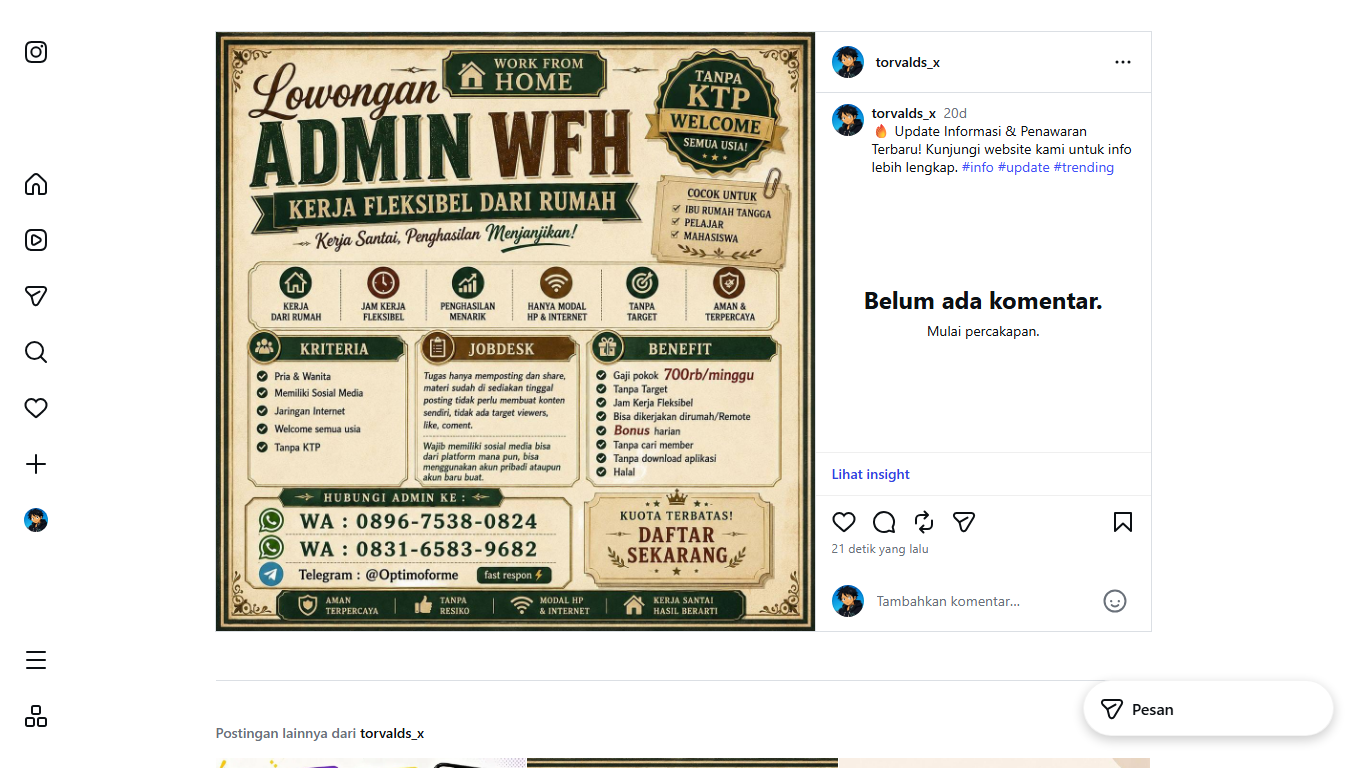
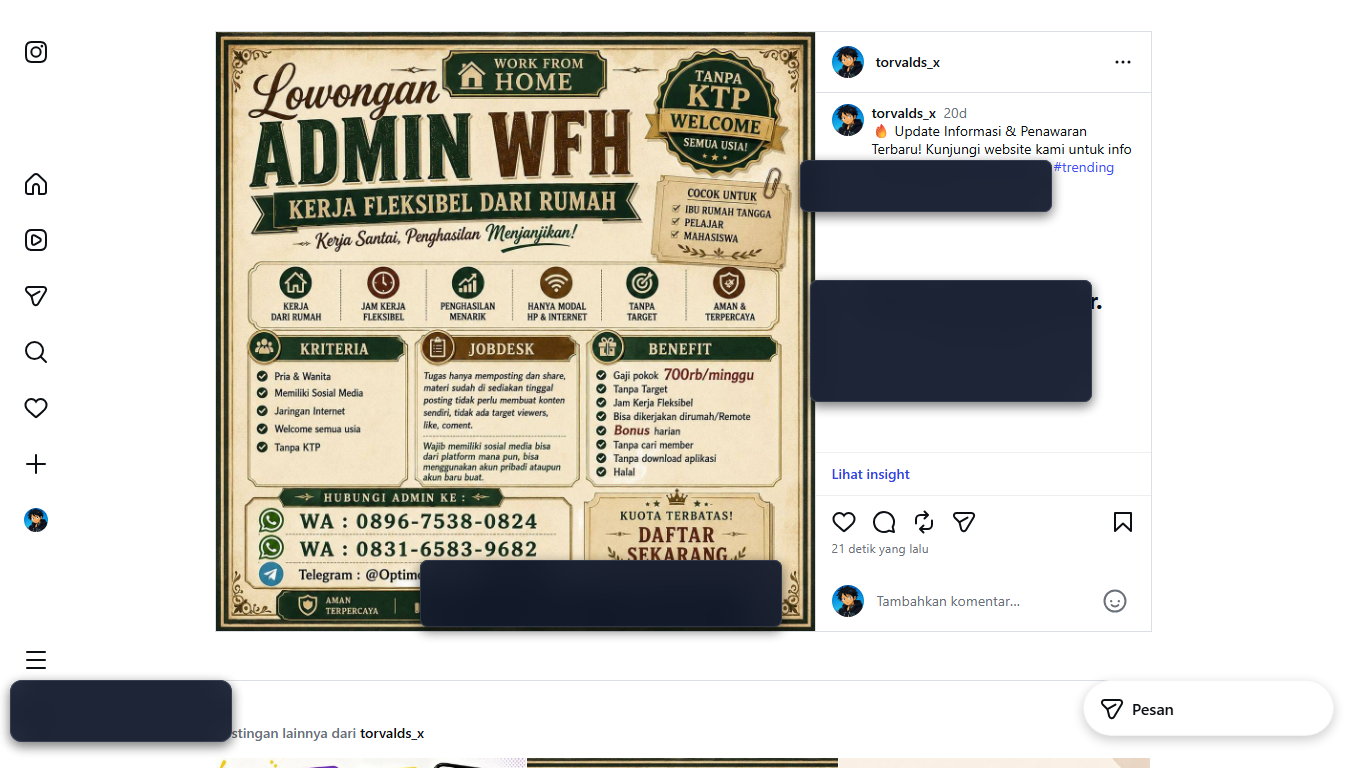
docs: blur sensitive contact info on proofs and polish README with humanized writing

diff --git a/README.md b/README.md
@@ -1,164 +1,124 @@
 <p align="center">
-  <img src="assets/banner.png" alt="AutoSocial 24/7 Bot Avatar" width="180" style="border-radius: 50%; box-shadow: 0 10px 30px rgba(0, 0, 0, 0.35);" />
+  <img src="assets/banner.png" alt="AutoSocial 24/7 Avatar" width="160" style="border-radius: 50%; box-shadow: 0 10px 25px rgba(0, 0, 0, 0.3);" />
 </p>
 
-<h1 align="center">🚀 AutoSocial 24/7</h1>
+<h1 align="center">AutoSocial 24/7</h1>
 <p align="center">
-  <strong>Autonomous Multi-Platform Social Media Auto-Poster & Real-Time Telegram Reporting System</strong>
+  <strong>Bot Otomasi Posting Multi-Platform (Instagram, Facebook, X) + Laporan Instan Telegram</strong>
 </p>
-
-<p align="center">
-  <img src="https://img.shields.io/badge/TypeScript-007ACC?style=for-the-badge&logo=typescript&logoColor=white" alt="TypeScript" />
-  <img src="https://img.shields.io/badge/Node.js-339933?style=for-the-badge&logo=nodedotjs&logoColor=white" alt="Node.js" />
-  <img src="https://img.shields.io/badge/Playwright-2EAD33?style=for-the-badge&logo=playwright&logoColor=white" alt="Playwright" />
-  <img src="https://img.shields.io/badge/Prisma-2D3748?style=for-the-badge&logo=prisma&logoColor=white" alt="Prisma" />
-  <img src="https://img.shields.io/badge/Express.js-000000?style=for-the-badge&logo=express&logoColor=white" alt="Express" />
-  <img src="https://img.shields.io/badge/Telegram_Bot-2CA5E0?style=for-the-badge&logo=telegram&logoColor=white" alt="Telegram" />
-  <img src="https://img.shields.io/badge/License-ISC-blue?style=for-the-badge" alt="License" />
-</p>
-
----
-
-## 📖 Tentang AutoSocial 24/7
-
-**AutoSocial 24/7** adalah sistem otomasi sosial media tingkat produksi yang dirancang untuk bekerja secara otonom tanpa henti. Sistem ini mempublikasikan poster secara terjadwal ke **Instagram Feed**, **Facebook Feed/Profil**, dan **X (Twitter)**, lalu secara instan mengirimkan laporan bukti tayang (*Proof of Work Screenshot*) langsung ke Telegram Bot Anda.
-
-> 💡 **Tanpa API Developer Resmi / Biaya Langganan Mahal!**  
-> Sistem ini memanfaatkan engine browser headless **Playwright** dengan manajemen sesi cookies cerdas (*Session-Aware Cookie Preservation*), sehingga Anda dapat menggunakan akun biasa tanpa perlu akun Developer Facebook/Twitter.
-
----
-
-## 📸 Bukti Tayang Otomatis (Proof-of-Work Gallery)
-
-Berikut adalah bukti tangkapan layar live hasil eksekusi publikasi otomatis poster dan caption oleh bot AI:
-
-### 1. 🐦 Bukti Tayang X (Twitter)
-> Bot secara otomatis mengisi composer X, mengunggah file poster beresolusi tinggi, mengetik caption ramah batas 280 karakter, dan menangkap screenshot status publikasi yang telah live:
 
 <p align="center">
-  <img src="assets/proof_twitter.png" alt="Bukti Tayang Live X / Twitter" width="850" style="border-radius: 12px; border: 1px solid #334155; box-shadow: 0 8px 24px rgba(0,0,0,0.4);" />
+  <img src="https://img.shields.io/badge/TypeScript-Ready-007ACC?style=flat-square&logo=typescript&logoColor=white" alt="TypeScript" />
+  <img src="https://img.shields.io/badge/Node.js-18+-339933?style=flat-square&logo=nodedotjs&logoColor=white" alt="Node.js" />
+  <img src="https://img.shields.io/badge/Playwright-Engine-2EAD33?style=flat-square&logo=playwright&logoColor=white" alt="Playwright" />
+  <img src="https://img.shields.io/badge/Prisma-SQLite-2D3748?style=flat-square&logo=prisma&logoColor=white" alt="Prisma" />
+  <img src="https://img.shields.io/badge/Telegram-Bot%20Reports-2CA5E0?style=flat-square&logo=telegram&logoColor=white" alt="Telegram" />
+  <img src="https://img.shields.io/badge/License-ISC-blue?style=flat-square" alt="License" />
 </p>
 
 ---
 
-### 2. 📸 Bukti Alur & Publikasi Instagram
-> Bot secara otomatis melakukan navigasi tangguh (*Resilient Navigation*), membuka popover pembuatan postingan, memasukkan media poster, mengisi caption humanis, dan menyelesaikan alur posting feed:
+## 💡 Latar Belakang & Alasan Dibuat
+
+Kebanyakan tools auto-post sosial media di luar sana butuh akun **Developer API** (Facebook Graph API atau Twitter API v2) yang persyaratannya ribet, verifikasi berbelit, dan harganya mahal untuk akun pribadi/tim kecil.
+
+**AutoSocial 24/7** dibuat sebagai solusi praktis: sistem ini berjalan seperti manusia yang membuka browser lewat **Playwright**, login menggunakan sesi cookie Anda, memposting poster sesuai jadwal, lalu langsung mengirimkan bukti screenshot tayang ke Telegram secara *real-time*.
+
+---
+
+## 📸 Bukti Hasil Eksekusi Otomatis
+
+Berikut adalah bukti tangkapan layar langsung saat bot menjalankan tugas posting di platform target:
+
+### 🐦 1. Publikasi di X (Twitter)
+> Bot membuka feed, upload gambar, mengetik caption ringkas ramah limit karakter, lalu menangkap screenshot postingan yang sudah live:
 
 <p align="center">
-  <img src="assets/proof_instagram.png" alt="Bukti Alur Posting Instagram" width="850" style="border-radius: 12px; border: 1px solid #334155; box-shadow: 0 8px 24px rgba(0,0,0,0.4);" />
+  <img src="assets/proof_twitter.png" alt="Bukti Tayang di X Twitter" width="900" style="border-radius: 10px; border: 1px solid #334155;" />
 </p>
 
 ---
 
-## 🌟 Fitur Unggulan
+### 📸 2. Alur Posting di Instagram
+> Bot menavigasi menu "Buat", memilih poster dari storage, menulis caption lengkap, dan menyelesaikan proses penerbitan feed secara otomatis:
 
-- 🤖 **Otonomi Penuh 24/7 (3 Sesi Harian)**:
-  - **Sesi Pagi**: `07:00 WIB`
-  - **Sesi Siang**: `13:00 WIB`
-  - **Sesi Malam**: `18:00 WIB`
-- 🎯 **Target Volume Tepat 9 Post/Hari**: 3 Sesi $\times$ 3 Platform = 9 post per hari dengan rotasi alokasi poster unik per platform.
-- 🔐 **Session-Aware Cookie Guard**: Sesi login disimpan aman di `storage/sessions/` dan dipertahankan saat retry, mencegah pemicu checkpoint keamanan/tanggal lahir di Instagram & Facebook.
-- ✍ **Humanized Copywriting Engine**: Menghasilkan caption humanis bertema **Info Lowongan Freelance Admin WFH** dengan bahasa sales persuasif, ramah, bebas *AI-slop*, serta menyertakan kontak langsung (WhatsApp, Telegram Fast Respon, dan Gmail).
-- 📸 **Instant Proof-of-Work & Failure Escalation**:
-  - **Sukses**: Tangkapan layar postingan langsung dikirim ke Telegram beserta URL publik live.
-  - **Kendala**: Otomatis menangkap screenshot layar kegagalan (`.png`) & snapshot DOM (`.html`) sebelum context ditutup, lalu mengirimkan kartu alert error ke Telegram.
-- 🛡 **Resilient Tiered Navigation**: Navigasi bertingkat dengan *Smart Error Taxonomy*, deteksi rate limit, dan *Exponential Backoff with Jitter*.
-- 💻 **Modern Web Dashboard**: Tampilan *Dark Mode Glassmorphism* interaktif untuk memonitor status sesi, hitung mundur jadwal, galeri bukti tayang, dan pengiriman kustom.
+<p align="center">
+  <img src="assets/proof_instagram.png" alt="Bukti Alur Posting Instagram" width="900" style="border-radius: 10px; border: 1px solid #334155;" />
+</p>
 
 ---
 
-## 🏗 Struktur Direktori
+## ⚡ Keunggulan Utama
 
-```text
-├── assets/               # Banner, avatar & bukti visual screenshot tayang
-│   ├── banner.png           # Avatar bot utama
-│   ├── proof_twitter.png    # Bukti tangkapan layar live X (Twitter)
-│   └── proof_instagram.png  # Bukti tangkapan layar alur Instagram
-├── prisma/               # Skema SQLite Prisma (Asset, Schedule, PostLog, SessionHealth)
-├── public/               # Frontend Dashboard (HTML, CSS Glassmorphism, JS Client)
-├── reports/              # Dokumen Laporan Pengujian (test_report.html & test_report.pdf)
-├── scripts/              # Skrip Utilitas Resmi & Alat Login
-│   ├── open_browser_manual_login.ts # Login interaktif via browser
-│   ├── open_chrome_debug.ts         # Membuka Chrome remote debugging
-│   ├── sync_sessions_from_chrome.ts # Sinkronisasi sesi dari Chrome aktif
-│   ├── set_x_cookie.ts              # Konfigurasi cookie auth_token X
-│   ├── generate_test_report.ts      # Pembangkit laporan PDF & HTML
-│   └── reset_db_fresh.ts            # Reset database bersih
-├── src/
-│   ├── config/           # Konfigurasi Environment & Jadwal
-│   ├── database/         # Prisma Client Connection
-│   ├── services/
-│   │   ├── browser/      # BrowserSessionService & Resilient NavigationHelper
-│   │   ├── error/        # ErrorClassifierService & RetryService (Backoff)
-│   │   ├── platforms/    # InstagramService, FacebookService, XService
-│   │   ├── caption.service.ts   # Humanized Info Loker Copy Generator
-│   │   ├── scheduler.service.ts # Core 24/7 Scheduling Engine
-│   │   └── telegram.service.ts  # Bot Pelaporan & Eskalasi Error
-│   └── server.ts         # Express Server & Dashboard API
-├── storage/
-│   ├── posters/          # File Poster Gambar (JPEG/PNG)
-│   ├── screenshots/      # Tangkapan Layar Bukti Tayang (.png)
-│   │   └── failures/     # Tangkapan Layar Artefak Error (.png & .html)
-│   └── sessions/         # Sesi Cookies Terenkripsi (.json)
-└── tests/                # 7 Test Suites (31 Unit & Chaos Tests)
-```
+- 🕒 **Jadwal Tetap 3 Sesi Sehari**:
+  - **Pagi**: `07:00 WIB`
+  - **Siang**: `13:00 WIB`
+  - **Malam**: `18:00 WIB`
+- 🎯 **Target 9 Postingan per Hari**: 3 sesi $\times$ 3 platform (IG, FB, X) dengan rotasi poster acak agar tidak monoton.
+- 🍪 **Session-Aware Cookie Guard**: Sesi login tersimpan aman di `storage/sessions/`. Saat ada kendala jaringan atau delay UI, sistem tidak membuang cookie sehingga akun Anda tidak terkena checkpoint/verifikasi ulang.
+- ✍ **Caption Humanis & To-the-Point**: Khusus materi Info Loker / Admin WFH, dibuat dengan gaya komunikasi yang luwes, ramah, dan langsung menyertakan kontak pelamar tanpa kalimat kaku.
+- 🚨 **Tangkap Artefak Error**: Jika postingan gagal, sistem otomatis mengambil screenshot layar error (`.png`) dan snapshot HTML (`.html`), lalu mengirim kartu notifikasi ke Telegram agar Anda bisa langsung tahu masalahnya.
+- 🖥 **Web Dashboard Bawaan**: Pantau status postingan, hitung mundur sesi, cek galeri bukti tayang, atau lakukan posting manual langsung dari browser lokal (`http://localhost:3000`).
 
 ---
 
-## 🚀 Panduan Instalasi & Penggunaan (Quick Start)
+## 🛠 Panduan Instalasi & Persiapan
 
-### 1. Clone Repositori & Install Dependensi
+### 1. Clone & Pasang Dependensi
 ```bash
 git clone https://github.com/zakariyasync-hash/sosialmedia-manager-auto.git
 cd sosialmedia-manager-auto
 npm install
 ```
 
-### 2. Inisialisasi Database SQLite
+### 2. Siapkan Database SQLite
 ```bash
 npm run prisma:push
 ```
 
-### 3. Konfigurasi Environment (`.env`)
+### 3. Buat File Konfigurasi `.env`
 Salin template konfigurasi:
 ```bash
 cp .env.example .env
 ```
-Edit file `.env` dan sesuaikan dengan data Anda:
+
+Isi file `.env` dengan data Anda:
 ```env
 PORT=3000
 NODE_ENV=development
-APP_SECRET_KEY=your_32_character_secret_key_here_12345
+APP_SECRET_KEY=isi_kunci_acak_32_karakter_disini_bebas
 
-# Kredensial Sosial Media
-IG_USERNAME=your_instagram_username
-IG_PASSWORD=your_instagram_password
+# Akun Instagram
+IG_USERNAME=username_ig_kamu
+IG_PASSWORD=password_ig_kamu
 
-FB_EMAIL=your_facebook_email@gmail.com
-FB_PASSWORD=your_facebook_password
+# Akun Facebook
+FB_EMAIL=email_fb_kamu@gmail.com
+FB_PASSWORD=password_fb_kamu
 
-X_USERNAME=your_x_username
-X_PASSWORD=your_x_password
+# Akun X (Twitter)
+X_USERNAME=username_x_kamu
+X_PASSWORD=password_x_kamu
 
-# Kontak Recruitment (Otomatis masuk ke caption poster)
-CONTACT_EMAIL=wfhjob10@gmail.com
-CONTACT_WHATSAPP1=0896-7538-0824
-CONTACT_WHATSAPP2=0831-6583-9682
-CONTACT_TELEGRAM=@Optimoforme
+# Kontak Lowongan (Otomatis masuk ke caption)
+CONTACT_EMAIL=recruitment@email.com
+CONTACT_WHATSAPP1=0812-3456-7890
+CONTACT_WHATSAPP2=0896-7538-0824
+CONTACT_TELEGRAM=@NamaAdmin
 
-# Telegram Bot (Laporan Instan ke HP)
-TELEGRAM_BOT_TOKEN=123456789:AAHxxxxx_xxxxxxxxxxxx
-TELEGRAM_CHAT_ID=123456789
+# Telegram Bot untuk Laporan
+TELEGRAM_BOT_TOKEN=token_bot_dari_botfather
+TELEGRAM_CHAT_ID=id_chat_kamu
 ```
 
 ---
 
-## 🔑 Panduan Login & Ekstraksi Sesi Cookies
+## 🔐 Cara Login & Ambil Sesi Cookies
 
-Sistem menyediakan **dua metode mudah** untuk menyimpan sesi login awal:
+Anda hanya perlu login **satu kali saja**. Sistem menyediakan dua cara mudah:
 
-### 🔹 Metode A: Login Interaktif via Terminal (Paling Cepat)
-Jalankan perintah berikut untuk membuka browser interaktif, lakukan login sekali, dan browser otomatis menyimpan cookies:
+### Cara 1: Lewat Terminal Interaktif (Rekomendasi)
+Jalankan perintah di bawah, browser akan terbuka untuk login, dan cookie otomatis tersimpan:
 ```bash
 # Login Instagram
 npm run login:ig
@@ -170,41 +130,36 @@ npm run login:fb
 npm run login:x
 ```
 
-### 🔹 Metode B: Sinkronisasi Otomatis dari Chrome (`buka_chrome.bat`)
-Cocok jika akun Anda memiliki 2FA / Passkey yang lebih mudah login di browser Chrome asli:
-
-1. **Jalankan Skrip Chrome Debug**:
-   - Di Windows: Cukup klik ganda file [`buka_chrome.bat`](buka_chrome.bat) atau jalankan `npm run chrome:open`.
-2. **Login di Browser Chrome**:
-   - Buka tab `instagram.com`, `facebook.com`, dan `x.com` lalu login ke akun Anda.
-3. **Ekstrak Sesi**:
-   - Buka terminal baru dan jalankan:
-     ```bash
-     npm run chrome:sync
-     ```
-   - Seluruh sesi cookies akan otomatis terekstrak ke `storage/sessions/`!
-4. **Tutup Jendela Chrome Debug**.
+### Cara 2: Pakai Browser Chrome Asli (`buka_chrome.bat`)
+Cocok kalau akun Anda pakai 2FA / verifikasi HP:
+1. Klik ganda file `buka_chrome.bat` (atau ketik `npm run chrome:open`).
+2. Browser Chrome akan terbuka. Buka tab `instagram.com`, `facebook.com`, dan `x.com`, lalu login seperti biasa.
+3. Buka terminal baru dan jalankan:
+   ```bash
+   npm run chrome:sync
+   ```
+4. Selesai! Cookie langsung terekstrak ke folder `storage/sessions/`. Tutup jendela Chrome debug tadi.
 
 ---
 
-## 📱 Panduan Konfigurasi Bot Telegram
+## 🤖 Menghubungkan Bot Telegram
 
-1. Buka aplikasi Telegram dan cari **`@BotFather`**.
-2. Ketik `/newbot`, ikuti petunjuk, lalu salin **Bot Token API** ke `TELEGRAM_BOT_TOKEN` di `.env`.
-3. Cari bot **`@userinfobot`** di Telegram untuk mendapatkan ID Akun Anda, lalu masukkan ke `TELEGRAM_CHAT_ID`.
-4. Buka bot Anda di Telegram dan klik **`/start`**.
+1. Buka Telegram, cari **`@BotFather`**, ketik `/newbot`, lalu buat nama bot Anda.
+2. Salin token API yang diberikan ke `TELEGRAM_BOT_TOKEN`.
+3. Cari **`@userinfobot`** di Telegram untuk melihat ID akun Anda, lalu masukkan angkanya ke `TELEGRAM_CHAT_ID`.
+4. Masuk ke bot Anda di Telegram dan klik tombol **Start**.
 
 ---
 
-## 🏃 Menjalankan Sistem
+## 🚀 Menjalankan Bot
 
-### Mode Pengembangan (Development)
+### Mode Development (dengan Dashboard):
 ```bash
 npm run dev
 ```
-Akses Web Dashboard di browser: **`http://localhost:3000`**
+Buka dashboard di browser: `http://localhost:3000`
 
-### Mode Produksi (24/7 Daemon)
+### Mode Production (Daemon 24 Jam):
 ```bash
 npm run build
 npm start
@@ -212,27 +167,48 @@ npm start
 
 ---
 
-## 🧪 Pengujian & Laporan Verifikasi
+## 🧪 Pengujian Sistem
 
-Proyek ini telah melalui pengujian unit dan simulasi *chaos* yang ketat:
+Seluruh logika error recovery, classifier, retry backoff, dan validasi format poster telah diuji dengan Jest:
 
 ```bash
-# Menjalankan seluruh test suites (31 Unit Tests)
+# Jalankan seluruh unit test (31 tests)
 npm test
 
-# Menjalankan simulasi kegagalan & validasi poster
+# Jalankan simulasi uji ketahanan (Chaos test)
 npm run test:chaos
-
-# Menghasilkan Laporan Verifikasi Resmi (HTML & PDF)
-npx ts-node scripts/generate_test_report.ts
 ```
-
-Laporan verifikasi lengkap dapat dilihat di folder [`reports/`](reports/):
-- **`reports/test_report.html`** (Laporan visual interaktif)
-- **`reports/test_report.pdf`** (Laporan resmi siap cetak)
 
 ---
 
-## 📄 Lisensi
+## 📁 Struktur Direktori
 
-Didistribusikan di bawah Lisensi **ISC**. Bebas digunakan dan dikembangkan untuk keperluan otomasi personal maupun tim.
+```text
+├── assets/               # Banner & bukti tangkapan layar tayang
+├── prisma/               # Database schema SQLite (Prisma ORM)
+├── public/               # File tampilan dashboard web (HTML/CSS/JS)
+├── reports/              # Laporan hasil verifikasi sistem
+├── scripts/              # Skrip login & sinkronisasi sesi
+├── src/
+│   ├── config/           # Konfigurasi aplikasi & environment
+│   ├── database/         # Koneksi database Prisma
+│   ├── services/
+│   │   ├── browser/      # Engine Playwright & helper navigasi
+│   │   ├── error/        # Klasifikasi error & retry dengan backoff
+│   │   ├── platforms/    # Automator Instagram, Facebook, dan X
+│   │   ├── caption.service.ts   # Pembuat caption humanis
+│   │   ├── scheduler.service.ts # Mesin jadwal 24/7
+│   │   └── telegram.service.ts  # Pengirim bukti screenshot & alert
+│   └── server.ts         # Server Express & API
+├── storage/
+│   ├── posters/          # Folder file poster yang akan diunggah
+│   ├── screenshots/      # Bukti screenshot postingan berhasil
+│   └── sessions/         # File cookies (.json)
+└── tests/                # Unit & chaos test suites
+```
+
+---
+
+## 📜 Lisensi
+
+Lisensi **ISC**. Bebas digunakan, dimodifikasi, dan disesuaikan untuk kebutuhan otomasi pribadi maupun tim.
